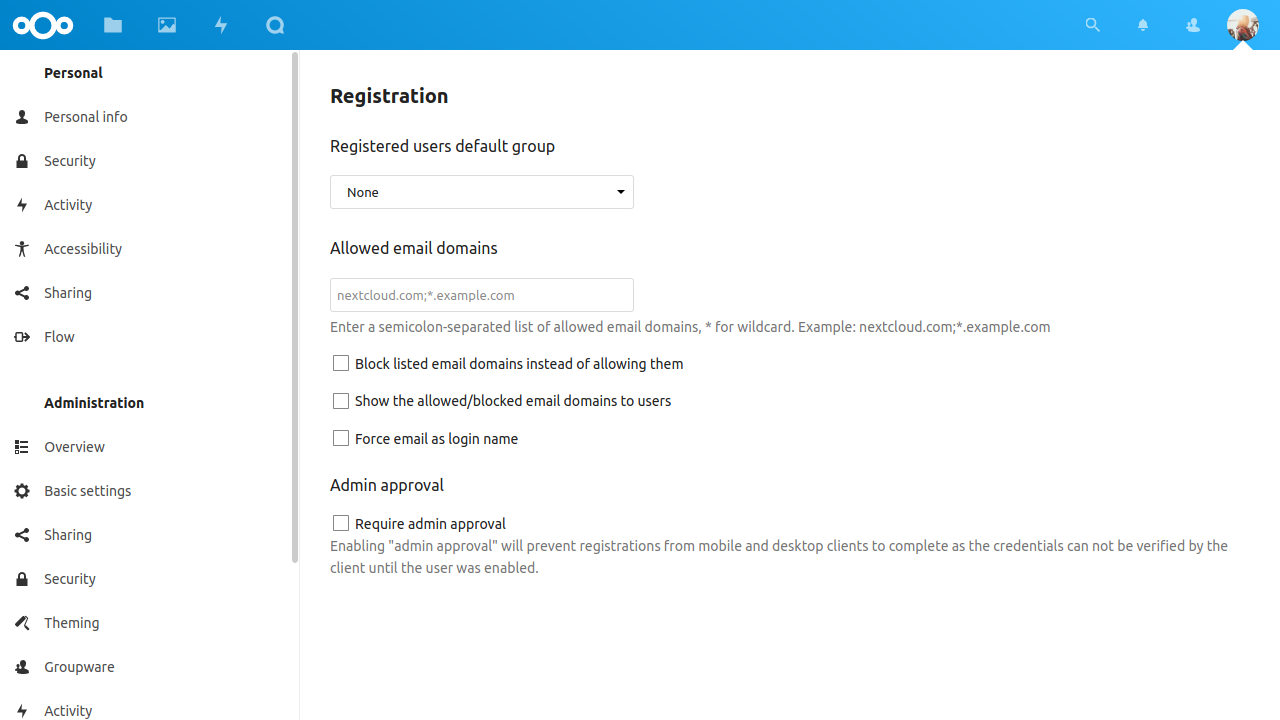
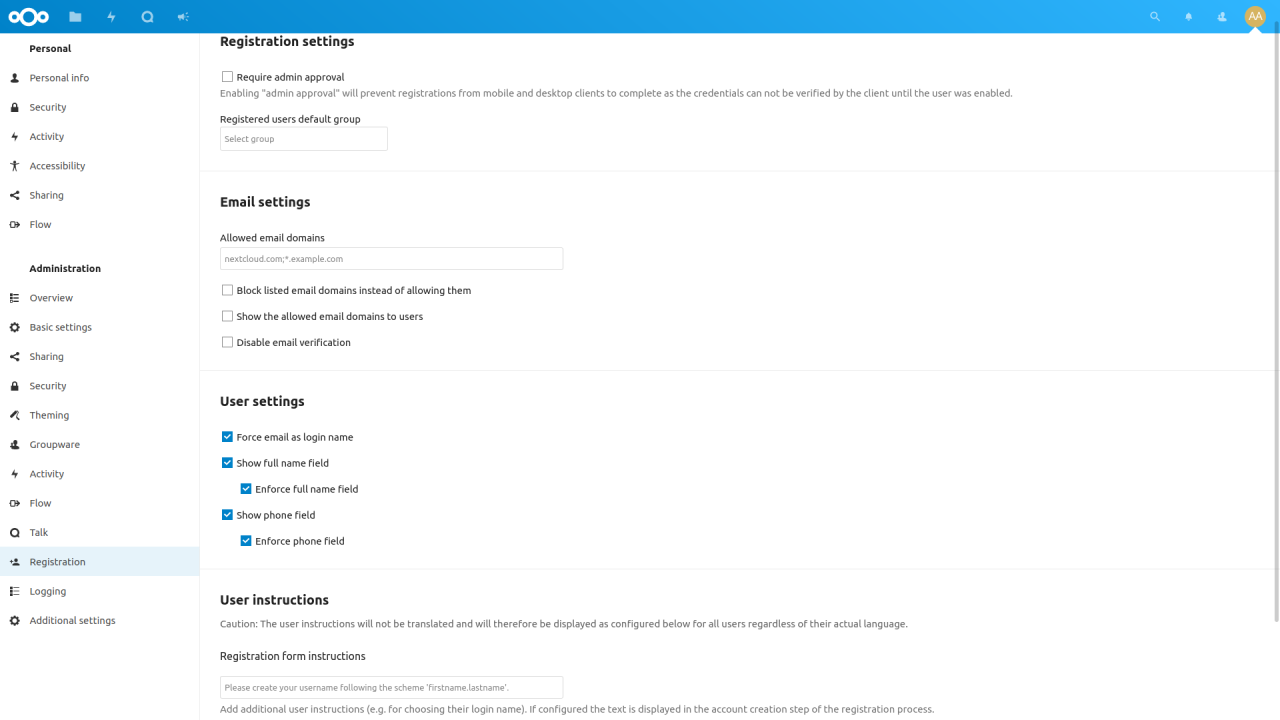
Add changelog, update screenshot and bump version

diff --git a/CHANGELOG.md b/CHANGELOG.md
@@ -1,7 +1,17 @@
 # Changelog
 All notable changes to this project will be documented in this file.
 
-## 0.7.0 – 2021-03-22
+## 1.1.0 – 2021-04-01
+### Added
+- Added settings to display and enforce a full name field on the registration form
+  [#280](https://github.com/nextcloud/registration/pull/280)
+- Added settings to display and enforce a phone number field on the registration form (Requires Nextcloud 21.0.1)
+  [#280](https://github.com/nextcloud/registration/pull/280)
+  
+### Changed
+- Reorganized the administration settings bringing in structure to the list of settings and hiding settings that exclude each others correctly
+
+## 1.0.0 – 2021-03-22
 ### Fixed
 - Some layout issues when the screen is integrated into the Nextcloud mobile apps
   [#277](https://github.com/nextcloud/registration/pull/277)
